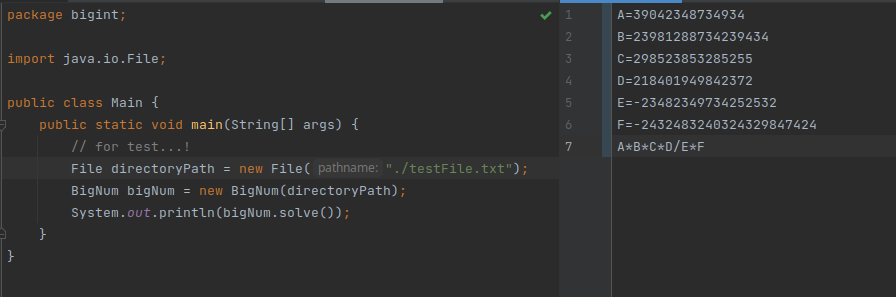
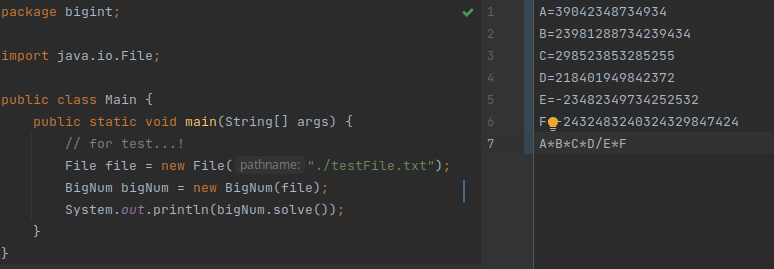
change examples

diff --git a/src/bigint/Main.java b/src/bigint/Main.java
@@ -5,8 +5,8 @@ import java.io.File;
 public class Main {
     public static void main(String[] args) {
         // for test...!
-        File directoryPath = new File("./testFile.txt");
-        BigNum bigNum = new BigNum(directoryPath);
+        File file = new File("./testFile.txt");
+        BigNum bigNum = new BigNum(file);
         System.out.println(bigNum.solve());
     }
 }
